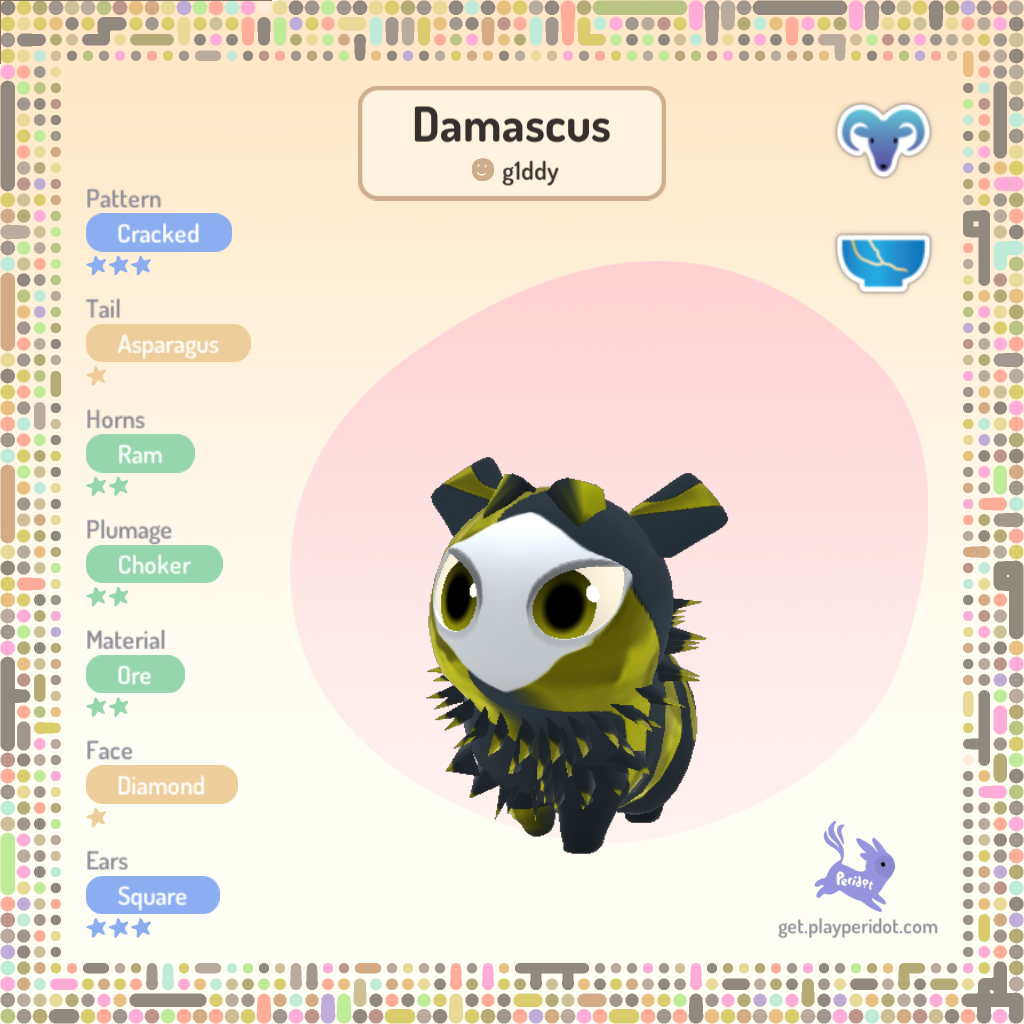
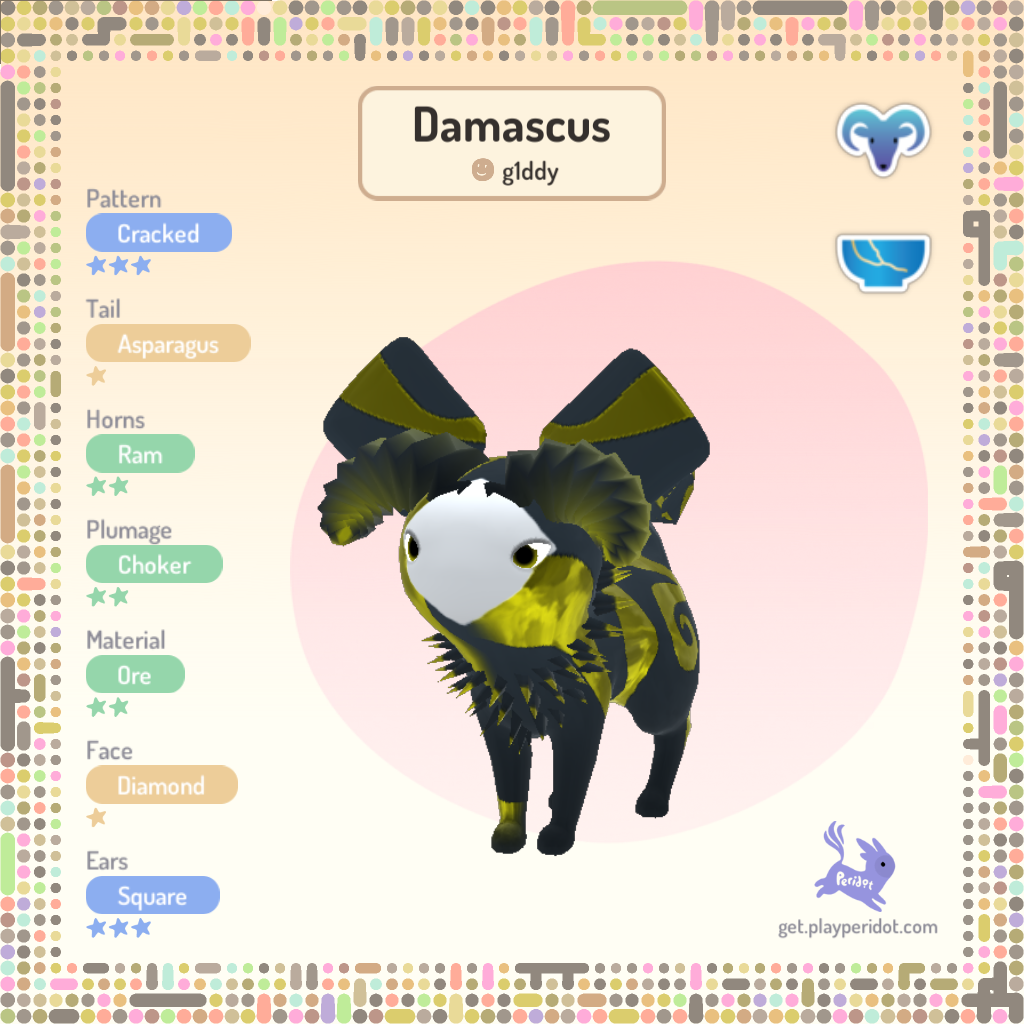
update pics, add peridot

Changed region(s): [[0.3125, 0.3125, 0.7188, 0.8438]]

diff --git a/Peridot-FamilyTree.md b/Peridot-FamilyTree.md
@@ -29,6 +29,7 @@ noise-8 --> orion-9("<img src='./assets/Peridots/orion-9.jpg'> <br /> Orion (Aur
 jewelfish-9 --> kaleidoscope-10("<img src='./assets/Peridots/kaleidoscope-10.jpg'> <br /> Kaleidoscope (Anemone,Clownfish,Rabbit)")
 jewelfish-9 --> krypto-10("<img src='./assets/Peridots/krypto-10.jpg'> <br /> Krypto (Dewdrop,Rabbit)")
 jewelfish-9 --> queezy-10("<img src='./assets/Peridots/queezy-10.jpg'> <br /> Queezy (Peacock)")
+orion-9 --> phenotype-10("<img src='./assets/Peridots/phenotype-10.jpg'> <br /> Phenotype (Sunset)")
 orion-9 --> predator-10("<img src='./assets/Peridots/predator-10.jpg'> <br /> Predator (Vampire)")
 krypto-10 --> lychee-11("<img src='./assets/Peridots/lychee-11.jpg'> <br /> Lychee (Boba,Rabbit,Static)")
 queezy-10 --> rockstar-11("<img src='./assets/Peridots/rockstar-11.jpg'> <br /> Rockstar (Peacock,Psychedelic)")
